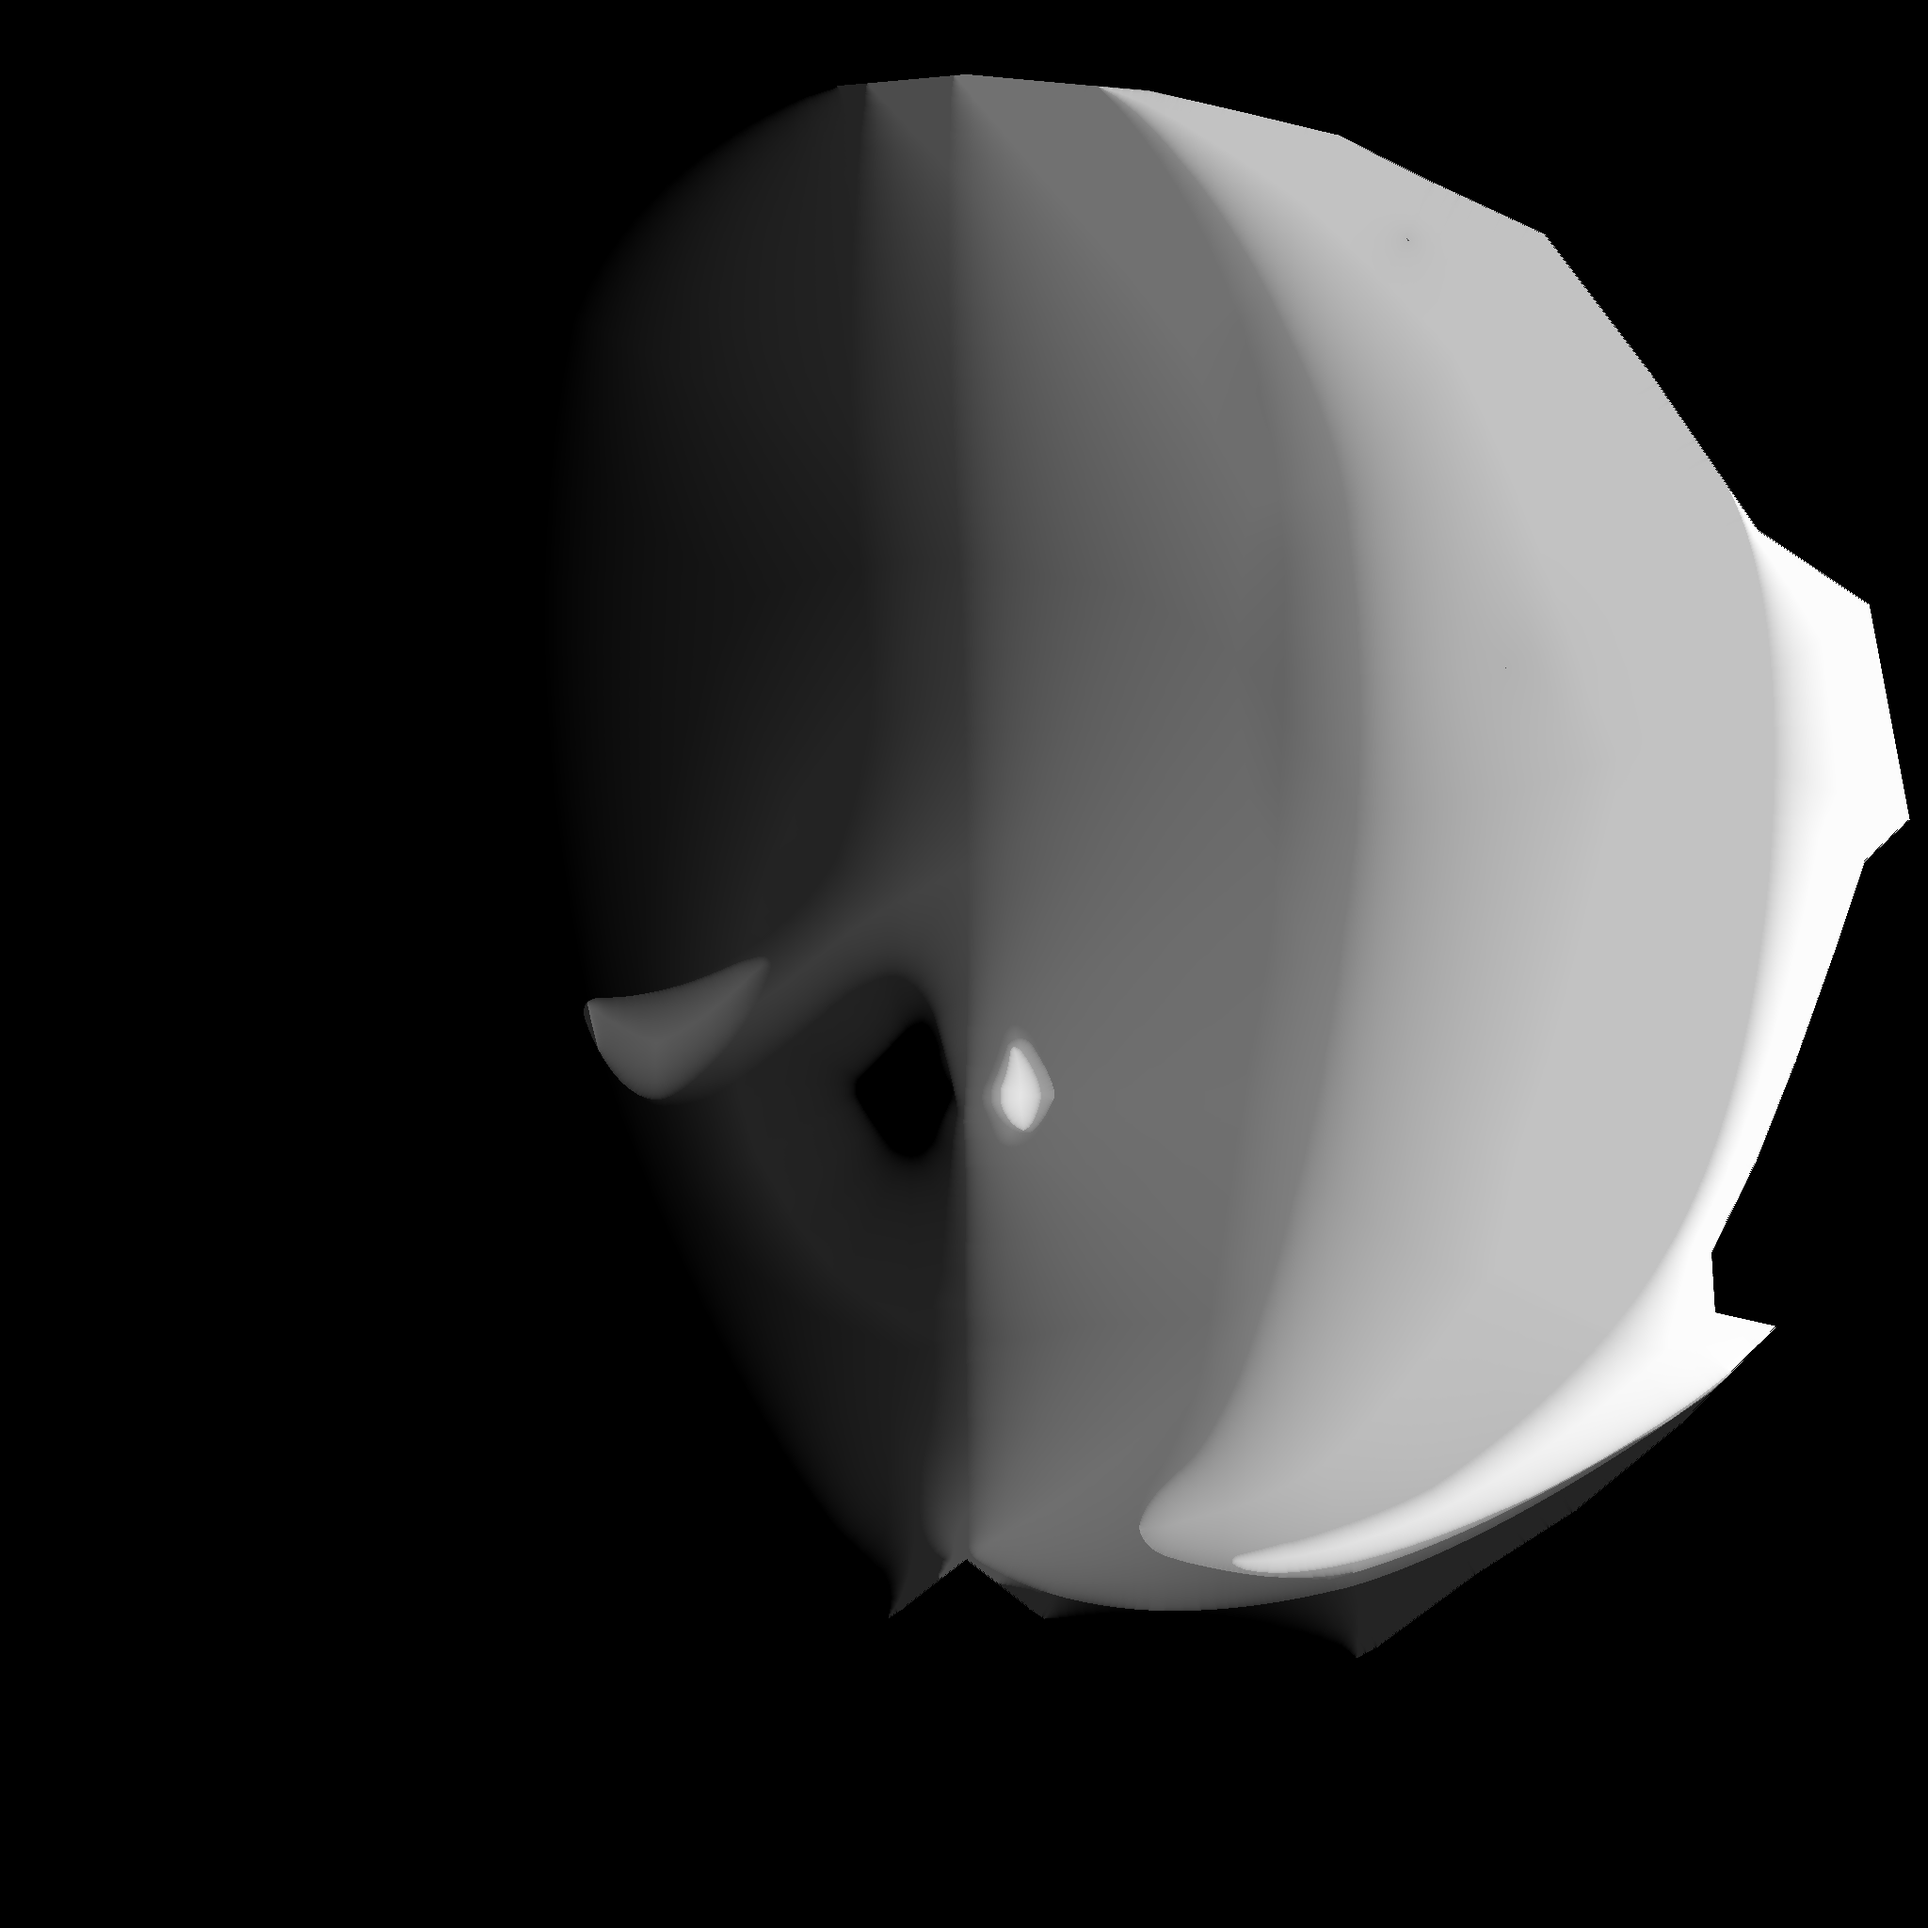
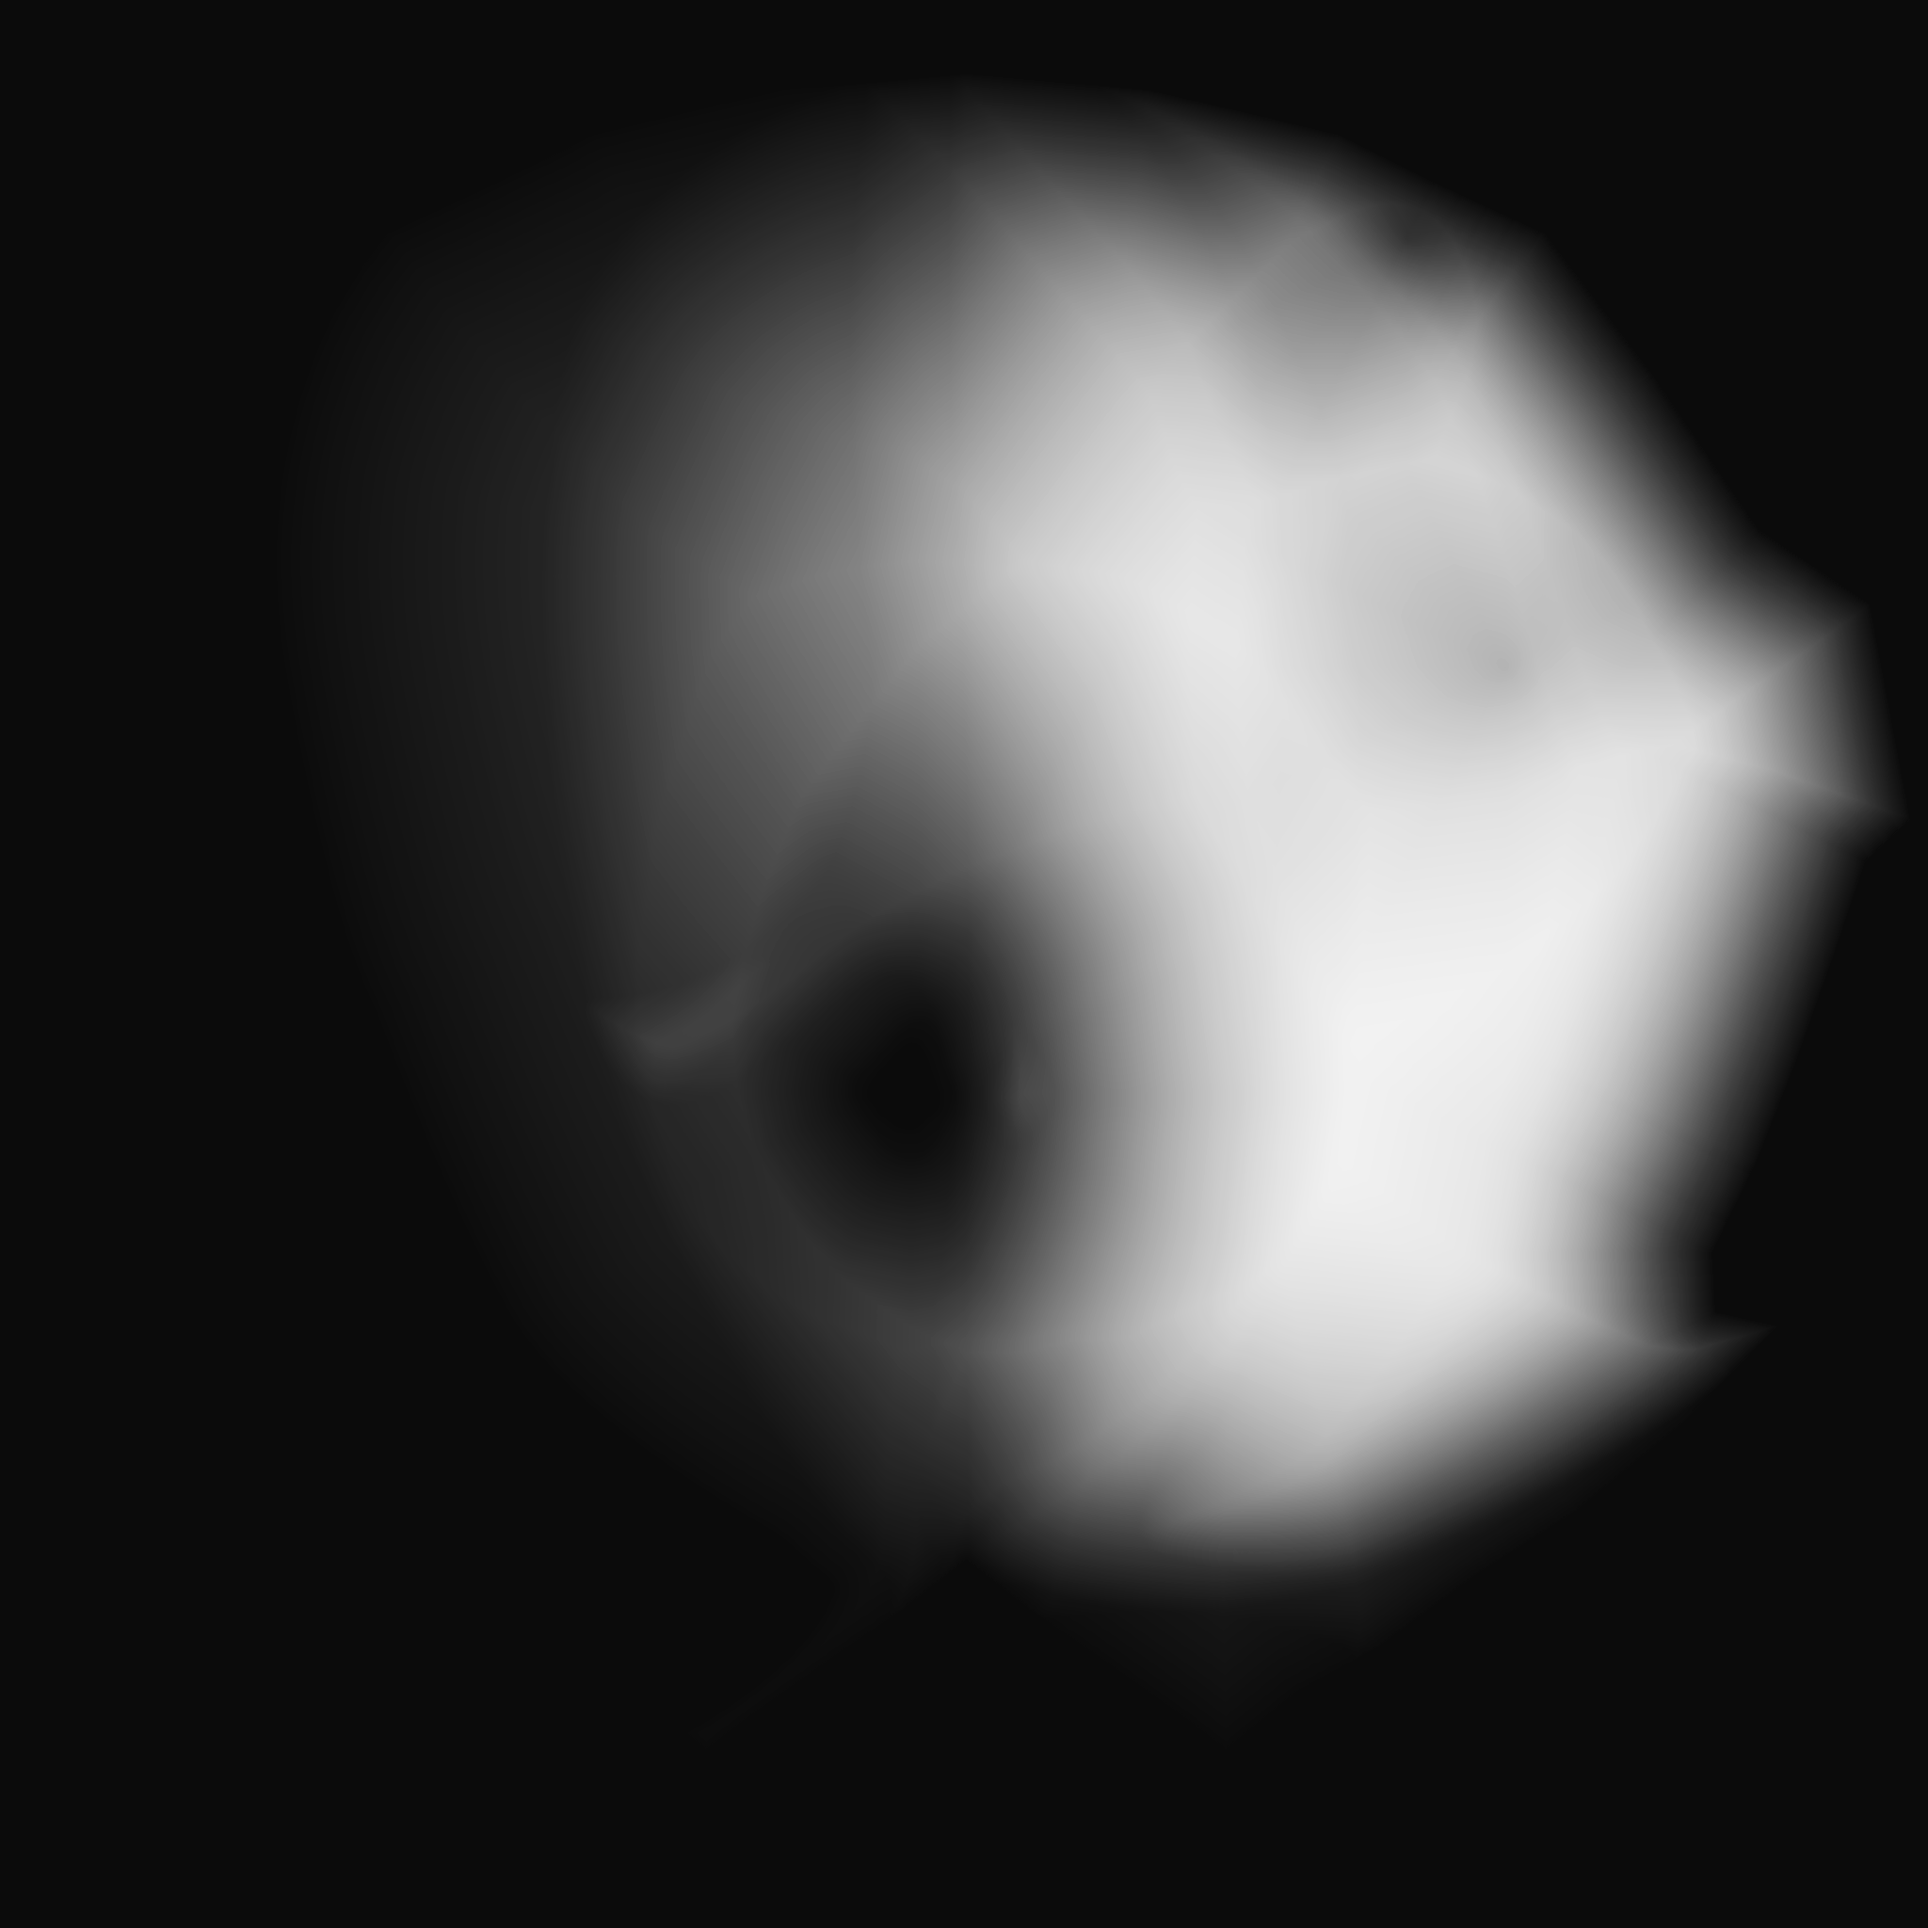
update py

diff --git a/SDF/sdf_texture_generator.py b/SDF/sdf_texture_generator.py
@@ -102,6 +102,7 @@ class SDFTool(QWidget):
     def delete_all(self):
         self.file_list.clear()
 
+
     @staticmethod
     def calculate_sdf(image, dist_type, mask_size):
         """Signed Distance Field (SDF) を計算（内部・外部両方）"""
@@ -112,8 +113,8 @@ class SDFTool(QWidget):
         except cv2.error as e:
             print(f"Error in distanceTransform with mask size {mask_size}: {e}")
             return None, None
-        return (cv2.normalize(sdf_ext, None, 0, 1.0, cv2.NORM_MINMAX),
-                cv2.normalize(sdf_int, None, 0, 1.0, cv2.NORM_MINMAX))
+        return sdf_ext, sdf_int
+
 
     @staticmethod
     def compute_transition(sdf_1, sdf_2):
@@ -151,126 +152,78 @@ class SDFTool(QWidget):
 
         for i in range(num_pairs):
             img_1, img_2 = images[i], images[i + 1]
+            corrected_map_1 = img_1.astype(np.float32) / 255
+            corrected_map_2 = img_2.astype(np.float32) / 255
 
-            # SDFの計算
-            sdf_1_ext, sdf_1_int = self.calculate_sdf(img_1, dist_type, mask_size)
-            sdf_2_ext, sdf_2_int = self.calculate_sdf(img_2, dist_type, mask_size)
+            # **SDFの計算**
+            sdf_1_ext, sdf_1_int = SDFTool.calculate_sdf(img_1, dist_type=cv2.DIST_L2, mask_size=3)
+            sdf_2_ext, sdf_2_int = SDFTool.calculate_sdf(img_2, dist_type=cv2.DIST_L2, mask_size=3)
 
-            # SDFを元に遷移率を計算
-            transition_map = self.compute_transition(sdf_1_int, sdf_2_int)
-            # 遷移領域のマスク
+            # **遷移率を計算 (影響を均等化)**
+            transition_map = sdf_1_int / (sdf_1_int + sdf_2_int + 1e-6)  # ピクセル単位で計算
+            transition_map = np.clip(transition_map, 0.01, 0.99)  # 遷移範囲を広げる
+
+            # **遷移領域のマスク**
             transition_mask = ((sdf_1_int > 0) & (sdf_2_int > 0)).astype(np.float32)
-            # 遷移領域のみに適用
             transition_map *= transition_mask
-            # SDFを蓄積
-            final_map += transition_map
+
+            # **SDFベースのブレンド**
+            blended_transition = transition_map * corrected_map_1 + (1 - transition_map) * corrected_map_2
+            final_map += blended_transition
+
 
         print(f"Before scaling, max value: {final_map.max()}")
 
         # 平均化
         final_map /= max(num_pairs, 1)  # 0除算を防ぐためにmaxを使用
+        final_map = cv2.normalize(final_map, None, 0, 255, cv2.NORM_MINMAX).astype(np.uint8)
 
-        final_map = cv2.normalize(final_map, None, 0, 255, cv2.NORM_MINMAX)
-        final_map = final_map.astype(np.uint8)
-
-        print(f"After normalization, max value: {final_map.max()}")
-
-        """
         # 画像を指定されたビット深度にスケール
         if channel_mode == "RGB(24bit)":
             final_map = (final_map * 255).astype(np.uint8)
             final_map = cv2.cvtColor(final_map, cv2.COLOR_GRAY2RGB)  # グレースケールをRGBに変換
+
         elif channel_mode == "ROnly(8bit)":
             final_map = (final_map * 255).astype(np.uint8)
             r_channel = final_map
             g_channel = np.zeros_like(final_map, dtype=np.uint8)
             b_channel = np.ones_like(final_map, dtype=np.uint8) * 255  # Bチャンネルを255に設定
             final_map = np.stack([r_channel, g_channel, b_channel], axis=-1)
+
         elif channel_mode == "RG(16bit)":
             final_map = (final_map * 65535).astype(np.uint16)
             r_channel = final_map
             g_channel = final_map
             b_channel = np.ones_like(final_map, dtype=np.uint16) * 65535  # Bチャンネルを65535に設定
             final_map = np.stack([r_channel, g_channel, b_channel], axis=-1)  # R, Gのみ有効
+
         elif channel_mode == "ROnly(16bit)":
             final_map = (final_map * 65535).astype(np.uint16)
             r_channel = final_map
             g_channel = np.zeros_like(final_map, dtype=np.uint16)
             b_channel = np.ones_like(final_map, dtype=np.uint16) * 65535  # Bチャンネルを65535に設定
             final_map = np.stack([r_channel, g_channel, b_channel], axis=-1)
+
         elif channel_mode == "GrayScale(8bit)":
             final_map = (final_map * 255).astype(np.uint8)  # そのまま保存
+
         elif channel_mode == "GrayScale(16bit)":
             final_map = (final_map * 65535).astype(np.uint16)  # そのまま保存
 
         print(f"After scaling, max value: {final_map.max()}")
-        """
 
         # 画像を保存
         output_filename = f"{save_path}/sdf_combined.png"
         cv2.imwrite(output_filename, final_map)
-
         print(f"Export completed: {output_filename}")
-
-
-def export_images():
-    script_dir = os.path.dirname(os.path.abspath(__file__))
-    assets_dir = os.path.join(script_dir, "Assets")
-    export_dir = os.path.join(script_dir, "python")
-
-    if not os.path.exists(assets_dir):
-        print(f"Error: Directory '{assets_dir}' not found.")
-        return
-
-    file_paths = sorted(
-        [os.path.join(assets_dir, f) for f in os.listdir(assets_dir) if f.endswith(('.png', '.jpg', '.jpeg'))])
-
-    if not file_paths:
-        print("No images to process.")
-        return
-
-    images = [cv2.imread(file, cv2.IMREAD_GRAYSCALE) for file in file_paths]
-    base_shape = images[0].shape
-    images = [cv2.resize(img, (base_shape[1], base_shape[0])) for img in images]
-
-    final_map = np.zeros_like(images[0], dtype=np.float32)
-    num_pairs = len(images) - 1  # ペアの数
-
-    for i in range(num_pairs):
-        img_1, img_2 = images[i], images[i + 1]
-        sdf_1_ext, sdf_1_int = SDFTool.calculate_sdf(img_1, dist_type=cv2.DIST_L2, mask_size=5)
-        sdf_2_ext, sdf_2_int = SDFTool.calculate_sdf(img_2, dist_type=cv2.DIST_L2, mask_size=5)
-        transition_map = SDFTool.compute_transition(sdf_1_int, sdf_2_int)
-        transition_mask = ((sdf_1_int > 0) & (sdf_2_int > 0)).astype(np.float32)
-        transition_map *= transition_mask
-        final_map += transition_map
-
-    print(f"Before scaling, max value: {final_map.max()}")
-    final_map /= max(num_pairs, 1)  # 0除算を防ぐためにmaxを使用
-    final_map = cv2.normalize(final_map, None, 0, 255, cv2.NORM_MINMAX).astype(np.uint8)
-    print(f"After normalization, max value: {final_map.max()}")
-
-    final_map = cv2.cvtColor(final_map, cv2.COLOR_GRAY2RGB)  # グレースケールをRGBに変換
-
-    if not os.path.exists(export_dir):
-        os.makedirs(export_dir)
-
-    output_filename = os.path.join(export_dir, "sdf_combined.png")
-    if os.path.exists(output_filename):
-        os.remove(output_filename)
-
-    cv2.imwrite(output_filename, final_map)
-    print(f"Export completed: {output_filename}")
+        pass
 
 
 
 if __name__ == "__main__":
-    """
     app = QApplication(sys.argv)
     window = SDFTool()
     window.show()
     sys.exit(app.exec())
-    """
-    export_images()
 
 

diff --git a/SDF/test.py b/SDF/test.py
@@ -1,0 +1,92 @@
+import cv2
+import numpy as np
+import os
+
+
+def createGray(img, threshold_value=128):
+    gray = cv2.cvtColor(img, cv2.COLOR_BGR2GRAY) if len(img.shape) == 3 else img
+    _, binary = cv2.threshold(gray, threshold_value, 255, cv2.THRESH_BINARY)
+    return binary
+
+
+def createSDF(img, threshold=128, dist_type=cv2.DIST_L2):
+    binary = createGray(img, threshold)
+    dist = cv2.distanceTransform(binary, dist_type, 5)
+    return dist
+
+
+def createDSDF(imgA, imgB, threshold=128, dist_type=cv2.DIST_L2):
+    sdfA = createSDF(imgA, threshold, dist_type).astype(np.float32)
+    sdfB = createSDF(imgB, threshold, dist_type).astype(np.float32)
+    add = sdfA + sdfB + 1e-6
+    div = sdfA / add
+    return div
+
+
+def apply_sigmoid_curve(img, gain=6.0, midpoint=128):
+    lut = np.array([
+        255 / (1 + np.exp(-gain * ((i - midpoint) / 255.0)))
+        for i in range(256)
+    ], dtype=np.uint8)
+    return cv2.LUT(img, lut)
+
+
+def evaluate_match(output_img, sample_img):
+    diff = cv2.absdiff(output_img, sample_img)
+    exact = np.sum(diff == 0)
+    loose = np.sum(diff <= 1)
+    total = diff.size
+    mean_diff = np.mean(diff)
+    max_diff = np.max(diff)
+
+    print(f"🔍 一致率（完全一致）: {exact / total * 100:.2f} %")
+    print(f"🟡 一致率（±1までOK）: {loose / total * 100:.2f} %")
+    print(f"📊 平均差分: {mean_diff:.2f}")
+    print(f"📈 最大差分: {max_diff}")
+
+
+def export_images():
+    script_dir = os.path.dirname(os.path.abspath(__file__))
+    assets_dir = os.path.join(script_dir, "Assets")
+    sample_path = os.path.join(script_dir, "sample.png")
+
+    file_paths = sorted([
+        os.path.join(assets_dir, f)
+        for f in os.listdir(assets_dir)
+        if f.lower().endswith((".png", ".jpg", ".jpeg"))
+    ])
+    images = [cv2.imread(p, cv2.IMREAD_GRAYSCALE) for p in file_paths]
+    base_shape = images[0].shape
+    images = [cv2.resize(img, (base_shape[1], base_shape[0])) for img in images]
+
+    output = np.zeros_like(images[0], dtype=np.float32)
+    for i in range(len(images) - 1):
+        dsdf = createDSDF(images[i], images[i + 1])
+        output += dsdf
+    output /= max(len(images) - 1, 1)
+
+    # 正規化 → ガンマ補正 → ブラー → エッジ周辺だけ補正
+    output = cv2.normalize(output, None, 0, 1.0, cv2.NORM_MINMAX)
+    output = np.power(output, 0.65)
+    blurred = cv2.GaussianBlur(output, (5, 5), 0)
+
+    edges = cv2.Canny((output * 255).astype(np.uint8), 30, 100)
+    edges = cv2.dilate(edges, None)
+    mask = edges.astype(bool)
+    output[mask] = blurred[mask]
+
+    output_8bit = (output * 255).astype(np.uint8)
+    sigmoid_corrected = apply_sigmoid_curve(output_8bit, gain=6.0)
+
+    output_color = cv2.cvtColor(sigmoid_corrected, cv2.COLOR_GRAY2BGR)
+    output_filename = os.path.join(script_dir, "sdf_combined.png")
+    cv2.imwrite(output_filename, output_color)
+
+    # 一致率チェック
+    if os.path.exists(sample_path):
+        sample = cv2.imread(sample_path, cv2.IMREAD_GRAYSCALE)
+        evaluate_match(sigmoid_corrected, sample)
+
+
+if __name__ == "__main__":
+    export_images()

diff --git a/SDF/diff.py b/SDF/diff.py
@@ -1,0 +1,28 @@
+import cv2
+import numpy as np
+
+# ファイルパスを指定
+gen_path = "sdf_combined.png"
+sample_path = "sample.png"
+
+# グレースケールで読み込み
+img_gen = cv2.imread(gen_path, cv2.IMREAD_GRAYSCALE)
+img_sample = cv2.imread(sample_path, cv2.IMREAD_GRAYSCALE)
+
+# サイズ調整（念のため）
+if img_gen.shape != img_sample.shape:
+    img_sample = cv2.resize(img_sample, (img_gen.shape[1], img_gen.shape[0]))
+
+# 差分計算
+diff = cv2.absdiff(img_gen, img_sample)
+
+# 指標出力
+total = diff.size
+exact_match = np.sum(diff == 0)
+near_match = np.sum(diff <= 1)
+
+print("🔍 一致率（完全一致）:", round(exact_match / total * 100, 2), "%")
+print("🟡 一致率（±1までOK）:", round(near_match / total * 100, 2), "%")
+print("📊 平均差分:", round(np.mean(diff), 2))
+print("📈 最大差分:", np.max(diff))
+
